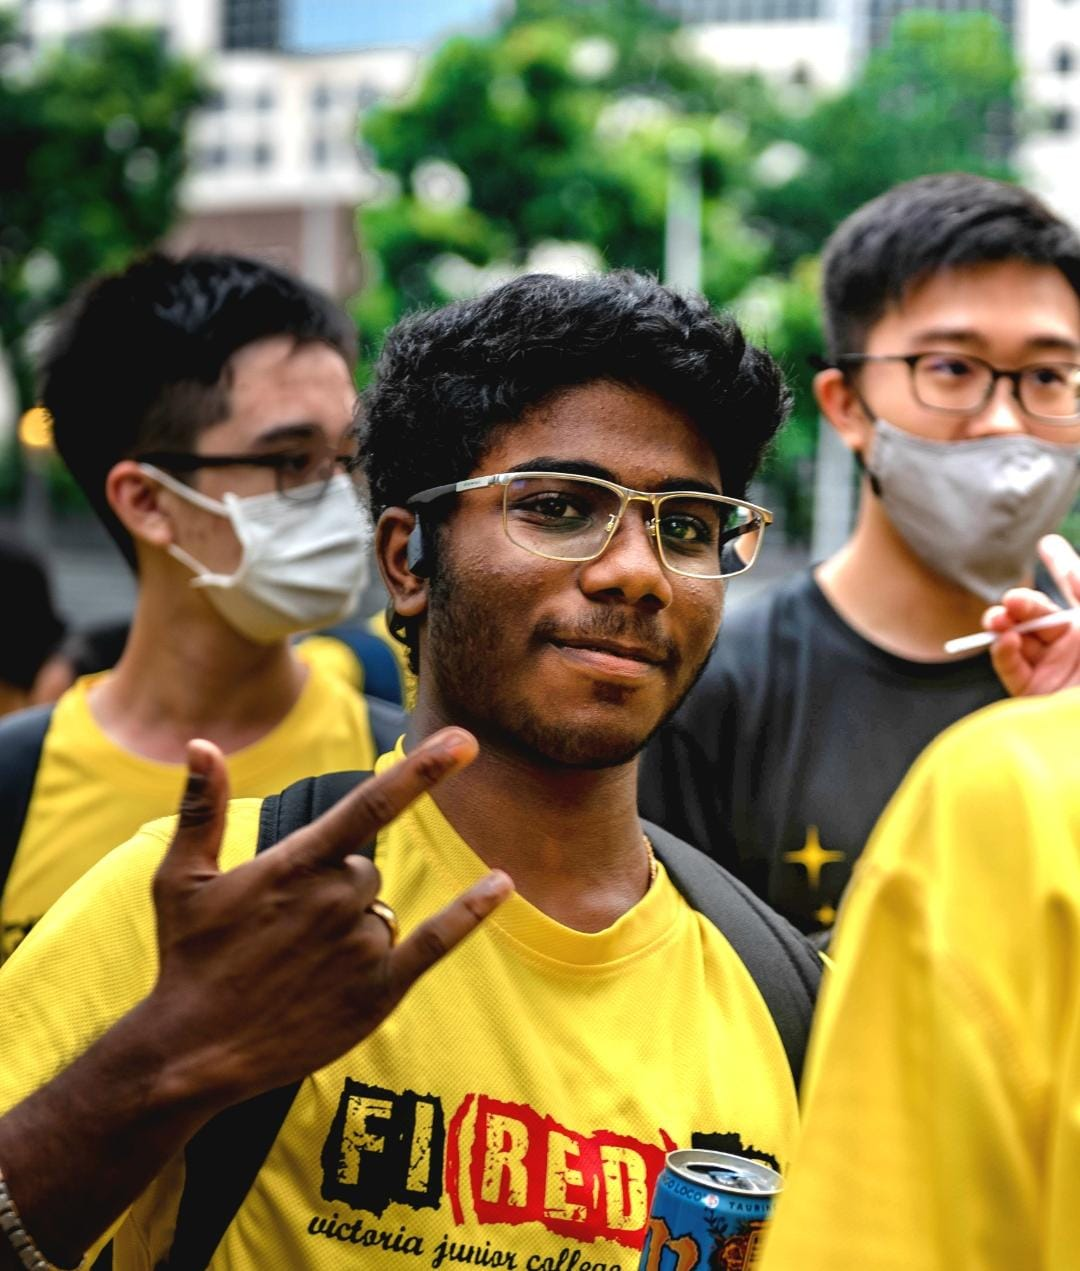
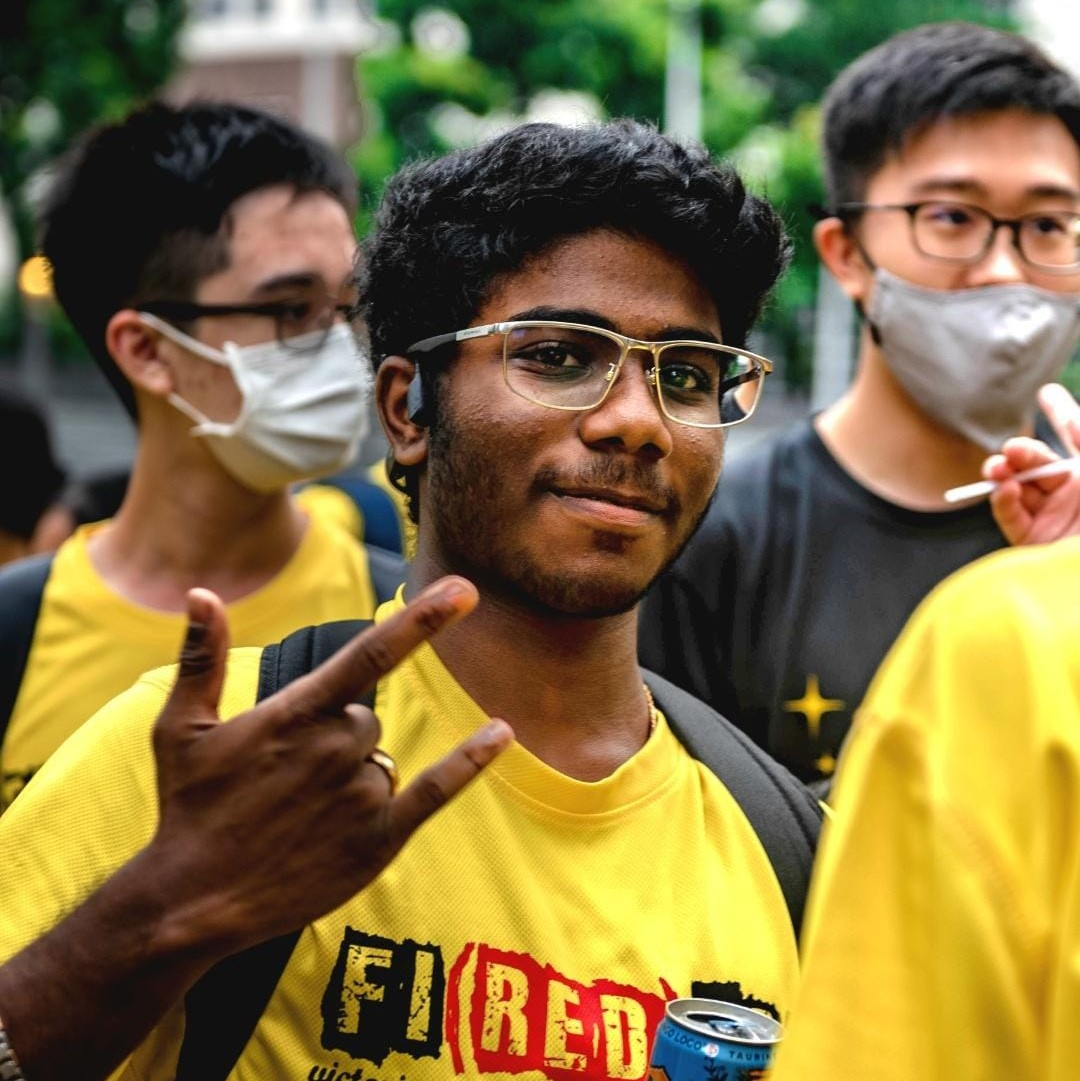
v1.4.4b: resize some images + implement oic tabs

diff --git a/pages/team.vue b/pages/team.vue
@@ -15,9 +15,32 @@
                 BuildingBloCS {{ year }} is led by a set of <s>charismatic</s> passionate overall ICs who overlook various departments within the organisation. Having worked together on organising BuildingBloCS {{ year - 1 }} last year, the organisers aim to help make BuildingBloCS {{ year }} even bigger and more far-reaching than ever before.
               </PageHead>
 
-              <div class="flex flex-wrap justify-center">
-                <TeamCard class="m-2" v-for="(teamMember, index) in oics[year]" :key="index" :teamMember="teamMember"></TeamCard>
-              </div>
+              
+            <TabGroup :defaultIndex="Object.keys(oics).indexOf(year)">
+              <TabList class="flex item-center rounded-xl w-96 justify-center mx-auto mb-8">
+                <Tab v-for="(category, index) in Object.keys(oics)"
+                  as="template" :key="category" v-slot="{ selected }">
+                  <button
+                    :class="[
+                      'w-full text-medium leading-5 font-extrabold',
+                      'focus:outline-none justify-center',
+                      selected ? 'text-orange-300' : 'text-orange-100 text-opacity-40 hover:text-orange-300 hover:text-opacity-70',
+                      index == 0 ? 'rounded-l-xl' : index == Object.keys(oics).length-1 ? 'rounded-r-xl' : '',
+                    ]">
+                    {{ category }}
+                  </button>
+                </Tab>
+              </TabList>
+              <TabPanels class="mt-2">
+                <TabPanel v-for="[year, oic] in Object.entries(oics)" :key="year" v-slot="{ selected }" class="p-3 focus:outline-none">
+                  <div class="flex flex-wrap justify-center">
+                    <TeamCard class="m-2" v-for="(teamMember, index) in oic" :key="index" :teamMember="teamMember"></TeamCard>
+                  </div>
+                </TabPanel>
+              </TabPanels>
+            </TabGroup>
+
+
             </div>
           </section>
 
